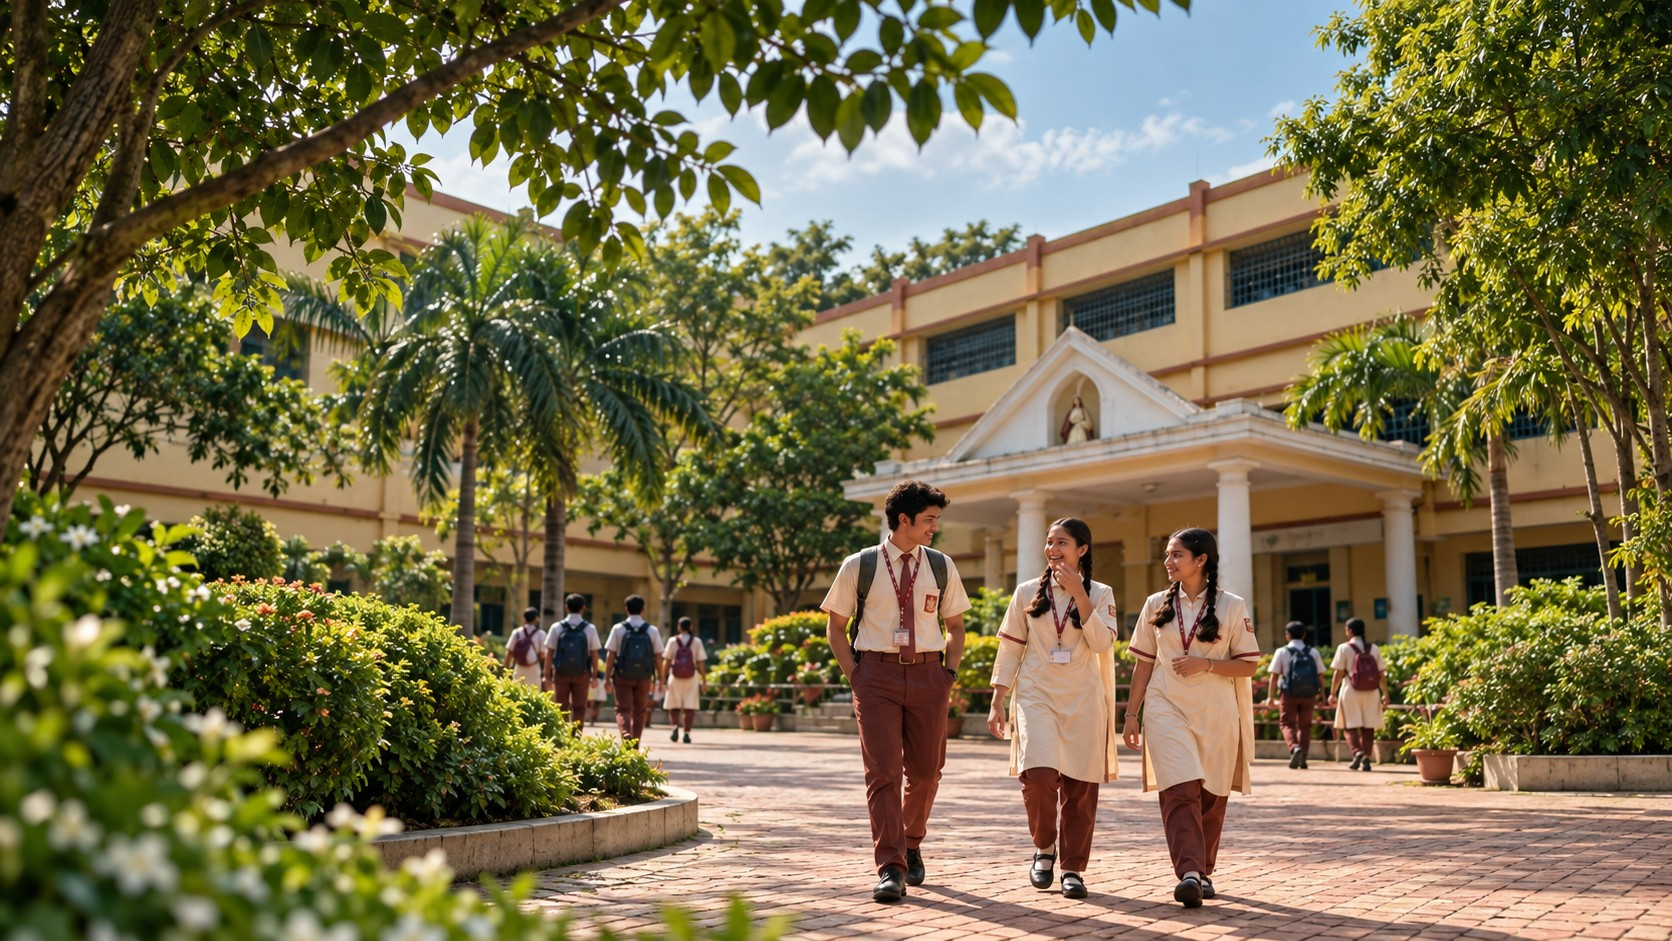
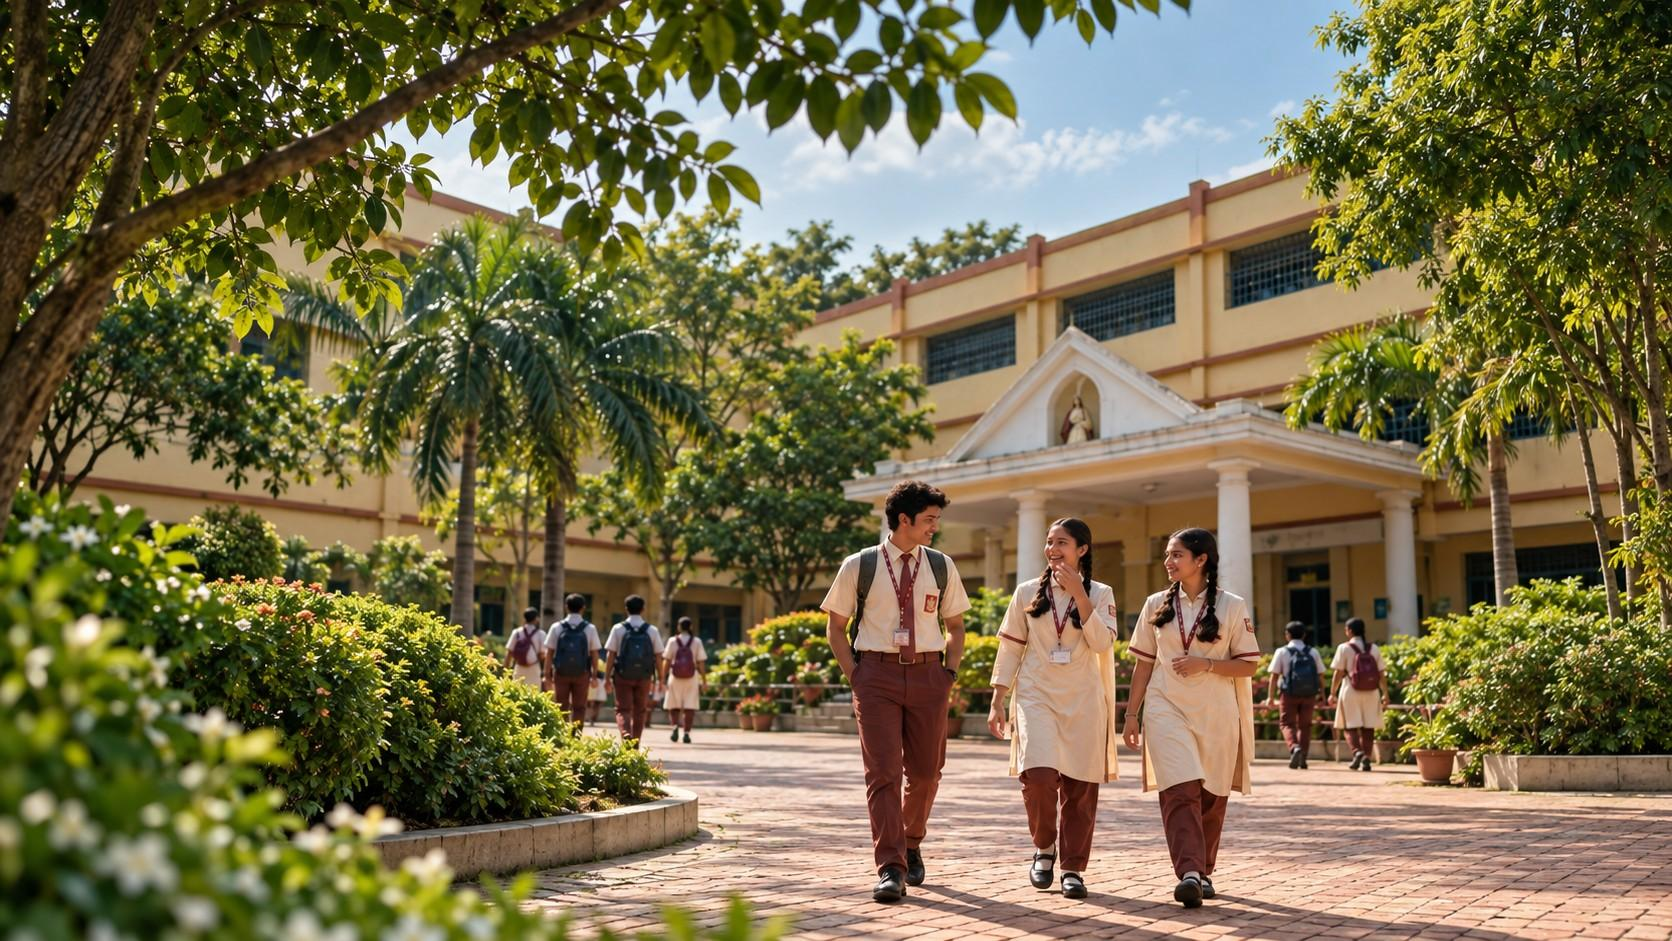
perf: comprehensive load time optimization (images, caching, preloads)

diff --git a/client/src/pages/Home.jsx b/client/src/pages/Home.jsx
@@ -281,12 +281,12 @@ const Home = () => {
               }} 
               className="w-full h-full will-change-transform max-md:scale-100 md:scale-100 origin-bottom transition-none"
             >
-              <div className="w-full h-full block relative">
-                {/* Mobile Image */}
+              <picture className="w-full h-full block relative">
+                <source media="(min-width: 768px)" srcSet="/images/hero/home-hero-desktop-new.jpg" />
                 <img 
                   src="/images/hero/home-hero-mobile-new.jpg" 
                   alt="Mount Carmel School" 
-                  className="w-full h-full object-cover object-center brightness-90 md:hidden"
+                  className="w-full h-full object-cover object-center brightness-90 md:brightness-100"
                   style={{
                     imageRendering: 'high-quality',
                     backfaceVisibility: 'hidden',
@@ -294,24 +294,15 @@ const Home = () => {
                   }}
                   fetchpriority="high"
                 />
-                {/* Desktop Image */}
-                <img 
-                  src="/images/hero/home-hero-desktop-new.jpg" 
-                  alt="Mount Carmel School" 
-                  className="w-full h-full object-cover object-center hidden md:block"
-                  style={{
-                    imageRendering: 'high-quality',
-                    backfaceVisibility: 'hidden',
-                    transform: 'translateZ(0)'
-                  }}
-                  fetchpriority="high"
-                />
+              </picture>
                 
-                {/* Desktop Image (Blurred duplicate for left-side tree depth of field, optimized for scroll performance) */}
+              {/* Desktop Image (Blurred duplicate for left-side tree depth of field, optimized for scroll performance) */}
+              <picture className="absolute top-0 left-0 w-full h-full hidden md:block pointer-events-none">
+                <source media="(min-width: 768px)" srcSet="/images/hero/home-hero-desktop-new.jpg" />
                 <img 
                   src="/images/hero/home-hero-desktop-new.jpg" 
                   alt="" 
-                  className="absolute top-0 left-0 w-full h-full object-cover object-center hidden md:block pointer-events-none"
+                  className="w-full h-full object-cover object-center"
                   style={{
                     filter: 'blur(6px)',
                     maskImage: 'linear-gradient(to right, rgba(0,0,0,1) 0%, rgba(0,0,0,0) 35%)',
@@ -321,7 +312,7 @@ const Home = () => {
                     transform: 'translateZ(0)'
                   }}
                 />
-              </div>
+              </picture>
             </div>
           </div>
           {/* Cinematic Gradient Overlay (Top to bottom on mobile, Left to right on desktop) */}

diff --git a/client/index.html b/client/index.html
@@ -8,8 +8,8 @@
     <meta name="keywords" content="Mount Carmel School, Christian missionary school, school Krishnanagar, Seemanagar, Nadia, education, academics, values, holistic development" />
     <link rel="preconnect" href="https://fonts.googleapis.com">
     <link rel="preconnect" href="https://fonts.gstatic.com" crossorigin>
-    <link rel="preload" as="image" href="/images/hero/home-hero-students-v2.webp" type="image/webp" media="(min-width: 768px)" fetchpriority="high">
-    <link rel="preload" as="image" href="/images/hero/home-hero-students-mobile-v5.jpg" type="image/jpeg" media="(max-width: 767px)" fetchpriority="high">
+    <link rel="preload" as="image" href="/images/hero/home-hero-desktop-new.jpg" type="image/jpeg" media="(min-width: 768px)" fetchpriority="high">
+    <link rel="preload" as="image" href="/images/hero/home-hero-mobile-new.jpg" type="image/jpeg" media="(max-width: 767px)" fetchpriority="high">
     <link href="https://fonts.googleapis.com/css2?family=Playfair+Display:wght@400;500;600;700;800&family=Inter:wght@300;400;500;600;700&display=swap" rel="stylesheet" fetchpriority="high">
     <title>Mount Carmel School | Growing in Knowledge, Values and Compassion</title>
   </head>
